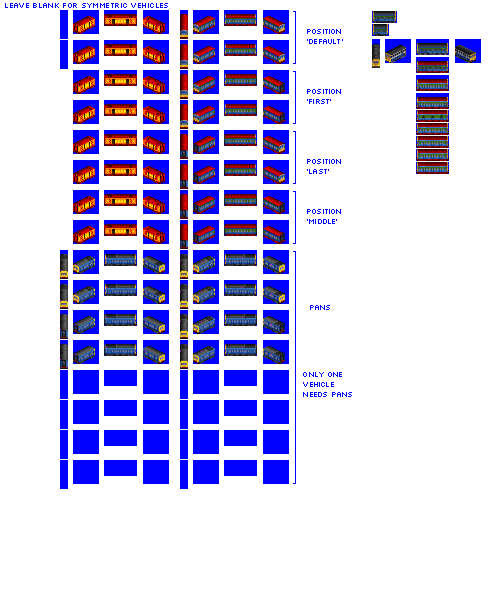
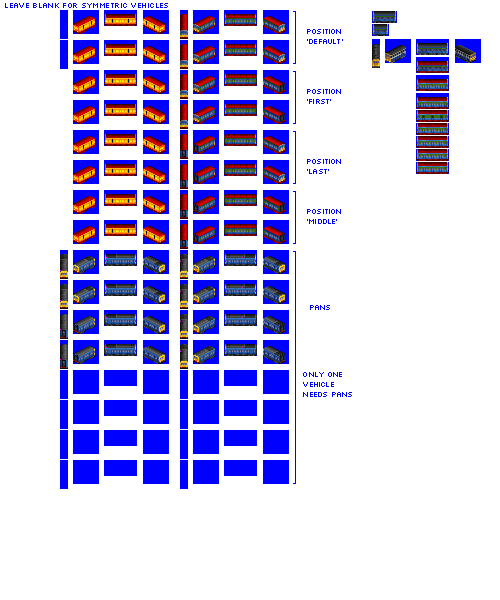
Change: door sprites improved for Deasil, Athena

diff --git a/src/vehicles/athena.py b/src/vehicles/athena.py
@@ -11,7 +11,7 @@ def main(roster):
                                             pantograph_type='diamond-single-with-base',
                                             easter_egg_haulage_speed_bonus=True,
                                             gen=3,
-                                            sprites_complete=False,
+                                            sprites_complete=True,
                                             intro_date_offset=-3)  # introduce early by design
 
     consist.add_unit(type=ElectricRailcarPaxUnit,

diff --git a/src/vehicles/deasil.py b/src/vehicles/deasil.py
@@ -9,7 +9,7 @@ def main(roster):
                                             role='pax_railcar_1',
                                             power=200,
                                             gen=3,
-                                            sprites_complete=False,
+                                            sprites_complete=True,
                                             intro_date_offset=-5)  # introduce early by design
 
     consist.add_unit(type=DieselRailcarPaxUnit,
